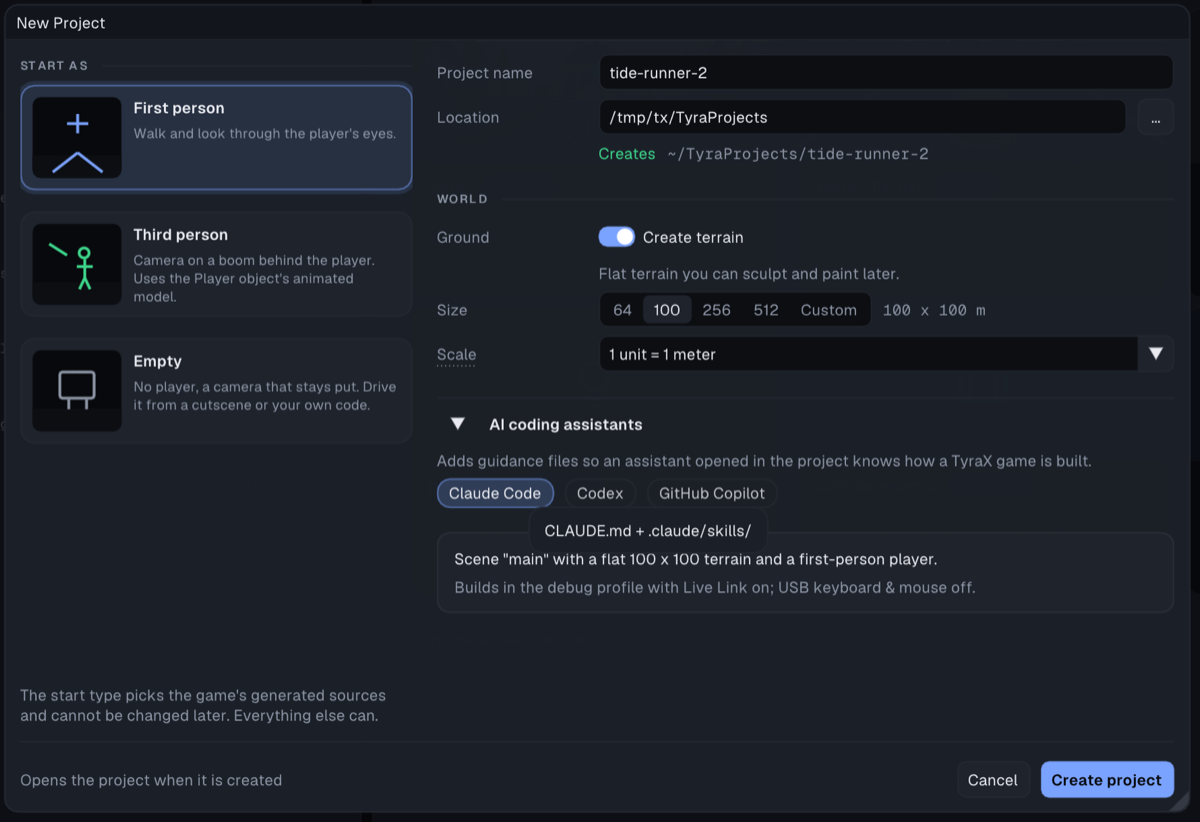
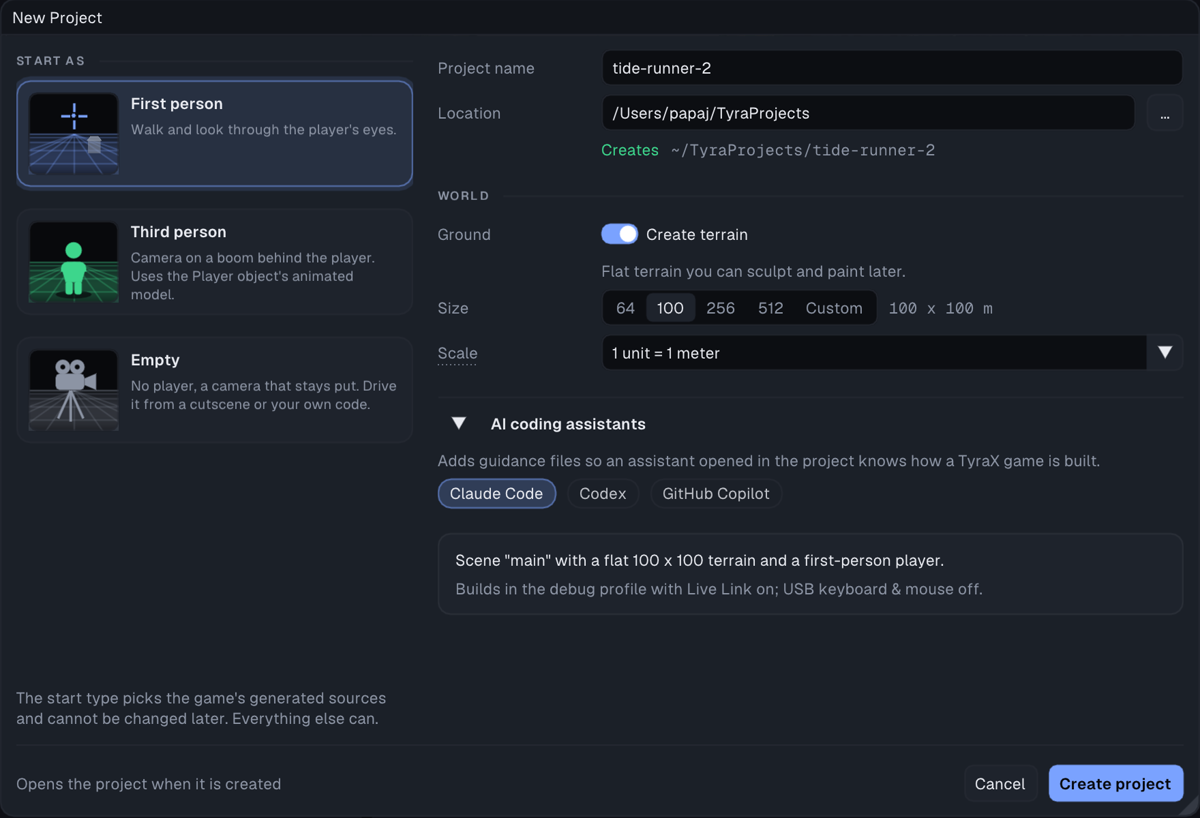
New Project: redraw the start-type card pictures
First person, Third person and Empty now share one small scene - dark sky,
a perspective floor grid tinted by the card's colour - with a crosshair and
a crate, the player seen from behind with a shadow, and a movie camera on a
tripod, instead of the stick figures.

diff --git a/src/app.cpp b/src/app.cpp
@@ -17606,35 +17606,73 @@ static const char* const kNewPresetDesc[] = {
     "Camera on a boom behind the player. Uses the Player object's animated model.",
     "No player, a camera that stays put. Drive it from a cutscene or your own code."};
 
-// The little picture on a preset card, drawn into [a, b].
+// The little picture on a preset card, drawn into [a, b]: the same small
+// scene every time - a dark sky, a floor whose grid runs to a vanishing point
+// on the horizon - and what each preset puts in it. First person: the view
+// itself (a crosshair on the horizon, a crate down the floor). Third person:
+// the player from behind, standing on the floor with a shadow. Empty: a
+// camera on a tripod, nobody in front of it.
 static void drawPresetArt(ImDrawList* dl, int preset, ImVec2 a, ImVec2 b) {
     const theme::Semantics& sem = theme::semantics();
     const float w = b.x - a.x, h = b.y - a.y;
-    dl->AddRectFilled(a, b, ImGui::GetColorU32(sem.ground), 6.0f);
-    dl->AddRectFilled(ImVec2(a.x, a.y + h * 0.72f), b, ImGui::GetColorU32(sem.field), 6.0f,
-                      ImDrawFlags_RoundCornersBottom);
+    const float r = 6.0f;
     auto P = [&](float x, float y) { return ImVec2(a.x + w * x, a.y + h * y); };
-    const float th = ImMax(1.5f, h * 0.035f);
+    auto col = [](ImVec4 c, float alpha) { return ImGui::GetColorU32(ImVec4(c.x, c.y, c.z, c.w * alpha)); };
+    const ImVec4 tint = preset == 0 ? sem.accent : preset == 1 ? sem.ok : sem.textDim;
+    const float th = ImMax(1.5f, h * 0.03f);
+
+    // Sky over floor, the floor lit a touch by the preset's colour.
+    const float hy = 0.5f;  // the horizon
+    dl->AddRectFilled(a, b, ImGui::GetColorU32(sem.ground), r);
+    dl->AddRectFilledMultiColor(P(0, hy), b, ImGui::GetColorU32(sem.field), ImGui::GetColorU32(sem.field),
+                                col(tint, 0.16f), col(tint, 0.16f));
+    dl->PushClipRect(a, b, true);
+    const ImU32 grid = col(tint, preset == 2 ? 0.22f : 0.3f);
+    const ImVec2 vp = P(0.5f, hy);
+    for (int i = -4; i <= 4; ++i) dl->AddLine(vp, P(0.5f + i * 0.32f, 1.0f), grid, 1.0f);
+    for (float d : {0.04f, 0.1f, 0.2f, 0.36f}) dl->AddLine(P(0, hy + d), P(1, hy + d), grid, 1.0f);
+    dl->AddLine(P(0, hy), P(1, hy), col(tint, 0.45f), 1.0f);
+
     if (preset == 0) {
+        // A crate down the floor, slightly off the centre line.
+        const ImU32 face = col(sem.textDim, 0.55f), top = col(sem.textDim, 0.8f);
+        dl->AddRectFilled(P(0.66f, 0.58f), P(0.8f, 0.74f), face);
+        dl->AddQuadFilled(P(0.66f, 0.58f), P(0.8f, 0.58f), P(0.77f, 0.54f), P(0.69f, 0.54f), top);
+        // Crosshair: four ticks around a dot, where the eye looks.
         const ImU32 c = ImGui::GetColorU32(sem.accent);
-        dl->AddLine(P(0.38f, 0.32f), P(0.62f, 0.32f), c, th);
-        dl->AddLine(P(0.5f, 0.2f), P(0.5f, 0.44f), c, th);
-        dl->AddLine(P(0.22f, 0.92f), P(0.5f, 0.68f), c, th);
-        dl->AddLine(P(0.5f, 0.68f), P(0.78f, 0.92f), c, th);
+        const ImVec2 o = P(0.5f, 0.28f);
+        const float g = h * 0.05f, l = h * 0.11f;
+        dl->AddLine(ImVec2(o.x - g - l, o.y), ImVec2(o.x - g, o.y), c, th);
+        dl->AddLine(ImVec2(o.x + g, o.y), ImVec2(o.x + g + l, o.y), c, th);
+        dl->AddLine(ImVec2(o.x, o.y - g - l), ImVec2(o.x, o.y - g), c, th);
+        dl->AddLine(ImVec2(o.x, o.y + g), ImVec2(o.x, o.y + g + l), c, th);
+        dl->AddCircleFilled(o, th * 0.9f, c);
     } else if (preset == 1) {
+        // The player from behind: shadow, shoulders/torso, head.
         const ImU32 c = ImGui::GetColorU32(sem.ok);
-        dl->AddCircle(P(0.58f, 0.36f), h * 0.07f, c, 16, th);
-        dl->AddLine(P(0.58f, 0.43f), P(0.58f, 0.66f), c, th);
-        dl->AddLine(P(0.49f, 0.52f), P(0.67f, 0.52f), c, th);
-        dl->AddLine(P(0.58f, 0.66f), P(0.52f, 0.8f), c, th);
-        dl->AddLine(P(0.58f, 0.66f), P(0.64f, 0.8f), c, th);
-        dl->AddLine(P(0.18f, 0.24f), P(0.38f, 0.38f), c, th);
+        dl->AddEllipseFilled(P(0.5f, 0.9f), ImVec2(w * 0.2f, h * 0.05f), col(sem.ground, 0.7f));
+        dl->AddRectFilled(P(0.36f, 0.5f), P(0.64f, 0.62f), c, w * 0.07f, ImDrawFlags_RoundCornersTop);
+        dl->AddQuadFilled(P(0.37f, 0.6f), P(0.63f, 0.6f), P(0.59f, 0.75f), P(0.41f, 0.75f), c);
+        dl->AddRectFilled(P(0.41f, 0.74f), P(0.49f, 0.9f), c, 2.0f);
+        dl->AddRectFilled(P(0.51f, 0.74f), P(0.59f, 0.9f), c, 2.0f);
+        dl->AddCircleFilled(P(0.5f, 0.36f), h * 0.1f, c, 24);
     } else {
+        // A movie camera on a tripod: reels, body, lens, legs.
         const ImU32 c = ImGui::GetColorU32(sem.textDim);
-        dl->AddRect(P(0.3f, 0.26f), P(0.7f, 0.6f), c, 2.0f, 0, th);
-        dl->AddLine(P(0.4f, 0.6f), P(0.4f, 0.72f), c, th);
-        dl->AddLine(P(0.6f, 0.6f), P(0.6f, 0.72f), c, th);
+        const ImU32 dark = ImGui::GetColorU32(sem.ground);
+        for (float x : {0.38f, 0.54f}) {
+            dl->AddCircleFilled(P(x, 0.22f), h * 0.09f, c, 20);
+            dl->AddCircleFilled(P(x, 0.22f), h * 0.03f, dark, 12);
+        }
+        dl->AddRectFilled(P(0.3f, 0.3f), P(0.62f, 0.5f), c, 3.0f);
+        dl->AddQuadFilled(P(0.62f, 0.36f), P(0.75f, 0.3f), P(0.75f, 0.5f), P(0.62f, 0.44f), c);
+        const ImVec2 hinge = P(0.46f, 0.5f);
+        dl->AddLine(hinge, P(0.32f, 0.84f), c, th);
+        dl->AddLine(hinge, P(0.46f, 0.88f), c, th);
+        dl->AddLine(hinge, P(0.6f, 0.84f), c, th);
     }
+    dl->PopClipRect();
+    dl->AddRect(a, b, col(sem.border, 0.8f), r);
 }
 
 void App::drawNewProjectModal() {

diff --git a/CHANGELOG.md b/CHANGELOG.md
@@ -86,7 +86,7 @@ Every tool and the main window were opened next to their approved designs; what 
 - **Command palette**: typing "bake" lists every bake the editor can start - global illumination (this scene / all scenes), model AO, pending pre-lit models, shadow decals (this scene / all scenes), stale procedural volumes - new **Build** menu items that run the same code as the tab buttons.
 - **Procedural**: pin and link colours follow the theme and the legend (points blue, masks pink, curves green); a *Procedural layout* button switches to the docked layout. **Neural Upscaler**: the *Project settings* tab is now a link to Project Preferences > Display > Frame delivery, which also holds the network's tuning. **Project Preferences**: sections are cards, every row shows a one-line meaning under its label, and Devkit channels are one table with each channel's polling interval in an *Every* column.
 - **VU Programs** and the **Particle Editor**: nothing overlaps in a narrow window any more (legends wrap, long notes end in "...", rows rearrange).
-- **Opening a project** shows which step is running and counts object files as they load. **Start page**: the Recent filter shows from two projects; New project / Open folder show their shortcuts. **New Project**: Claude Code starts selected. **AI Assistant**: pad-script and build rows say how they ended. **Update dialog**: names the package in words with its size.
+- **Opening a project** shows which step is running and counts object files as they load. **Start page**: the Recent filter shows from two projects; New project / Open folder show their shortcuts. **New Project**: Claude Code starts selected; the start-type cards have new pictures - a crosshair view, the player from behind, a camera on a tripod. **AI Assistant**: pad-script and build rows say how they ended. **Update dialog**: names the package in words with its size.
 ## 1.172.2 - 2026-10-16
 
 ### Releases

diff --git a/docs/start-page.md b/docs/start-page.md
@@ -55,7 +55,10 @@ Create project.](img/new-project.png)
 
 **Start as** (left) is the one choice that cannot change later: it picks the
 game sources the project generates, and those are yours to edit, so switching
-afterwards would overwrite your work or orphan it.
+afterwards would overwrite your work or orphan it. Each card's picture is the
+same small floor-and-horizon scene: seen down a crosshair (First person), with
+the player standing in it seen from behind (Third person), or with only a
+camera on a tripod (Empty).
 
 | Card | What you get |
 |---|---|
